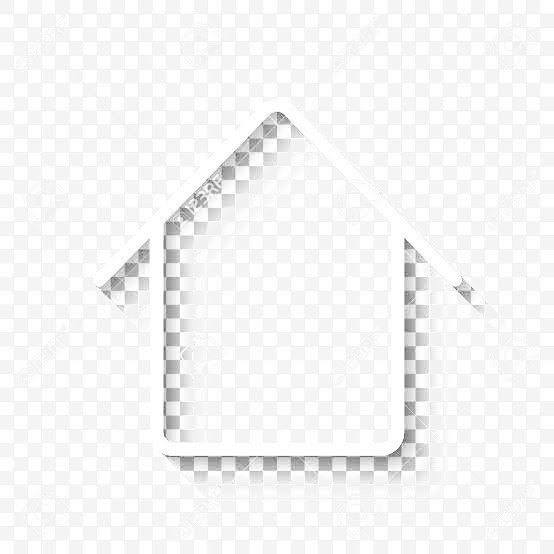
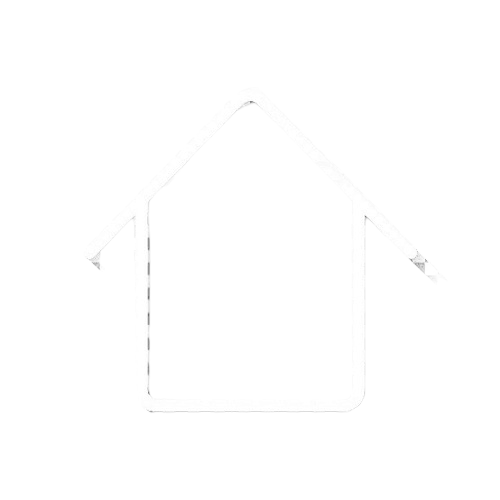
サイドバー画像

Changed region(s): [[0.18, 0.18, 0.78, 0.87], [0.81, 0.51, 0.87, 0.54]]

diff --git a/resources/views/layouts/sidebar.blade.php b/resources/views/layouts/sidebar.blade.php
@@ -19,13 +19,13 @@
   <div class="d-flex">
     <div class="sidebar">
       @section('sidebar')
-      <p><a href="{{ route('top.show') }}"><img src="{{ asset('image/home.jpeg') }}" width="30px" height="30px">トップ</a></p>
+      <p><a href="{{ route('top.show') }}"><img src="{{ asset('image/home.png') }}" width="30px" height="30px">トップ</a></p>
       <p><a href="/logout"><img src="{{ asset('image/logout.jpg') }}" width="30px" height="30px">ログアウト</a></p>
-      <p><a href="{{ route('calendar.general.show',['user_id' => Auth::id()]) }}"><img src="{{ asset('image/booking.jpg') }}" width="30px" height="30px">スクール予約</a></p>
+      <p><a href="{{ route('calendar.general.show',['user_id' => Auth::id()]) }}"><img src="{{ asset('image/booking.png') }}" width="30px" height="30px">スクール予約</a></p>
       <p><a href="{{ route('calendar.admin.show',['user_id' => Auth::id()]) }}"><img src="{{ asset('image/booked.png') }}" width="30px" height="30px">スクール予約確認</a></p>
       <p><a href="{{ route('calendar.admin.setting',['user_id' => Auth::id()]) }}"><img src="{{ asset('image/booked.png') }}" width="30px" height="30px">スクール枠登録</a></p>
       <p><a href="{{ route('post.show') }}"><img src="{{ asset('image/booked.png') }}" width="30px" height="30px">掲示板</a></p>
-      <p><a href="{{ route('user.show') }}"><img src="{{ asset('image/user.jpg') }}" width="30px" height="30px">ユーザー検索</a></p>
+      <p><a href="{{ route('user.show') }}"><img src="{{ asset('image/user.png') }}" width="30px" height="30px">ユーザー検索</a></p>
       @show
     </div>
     <div class="main-container">
